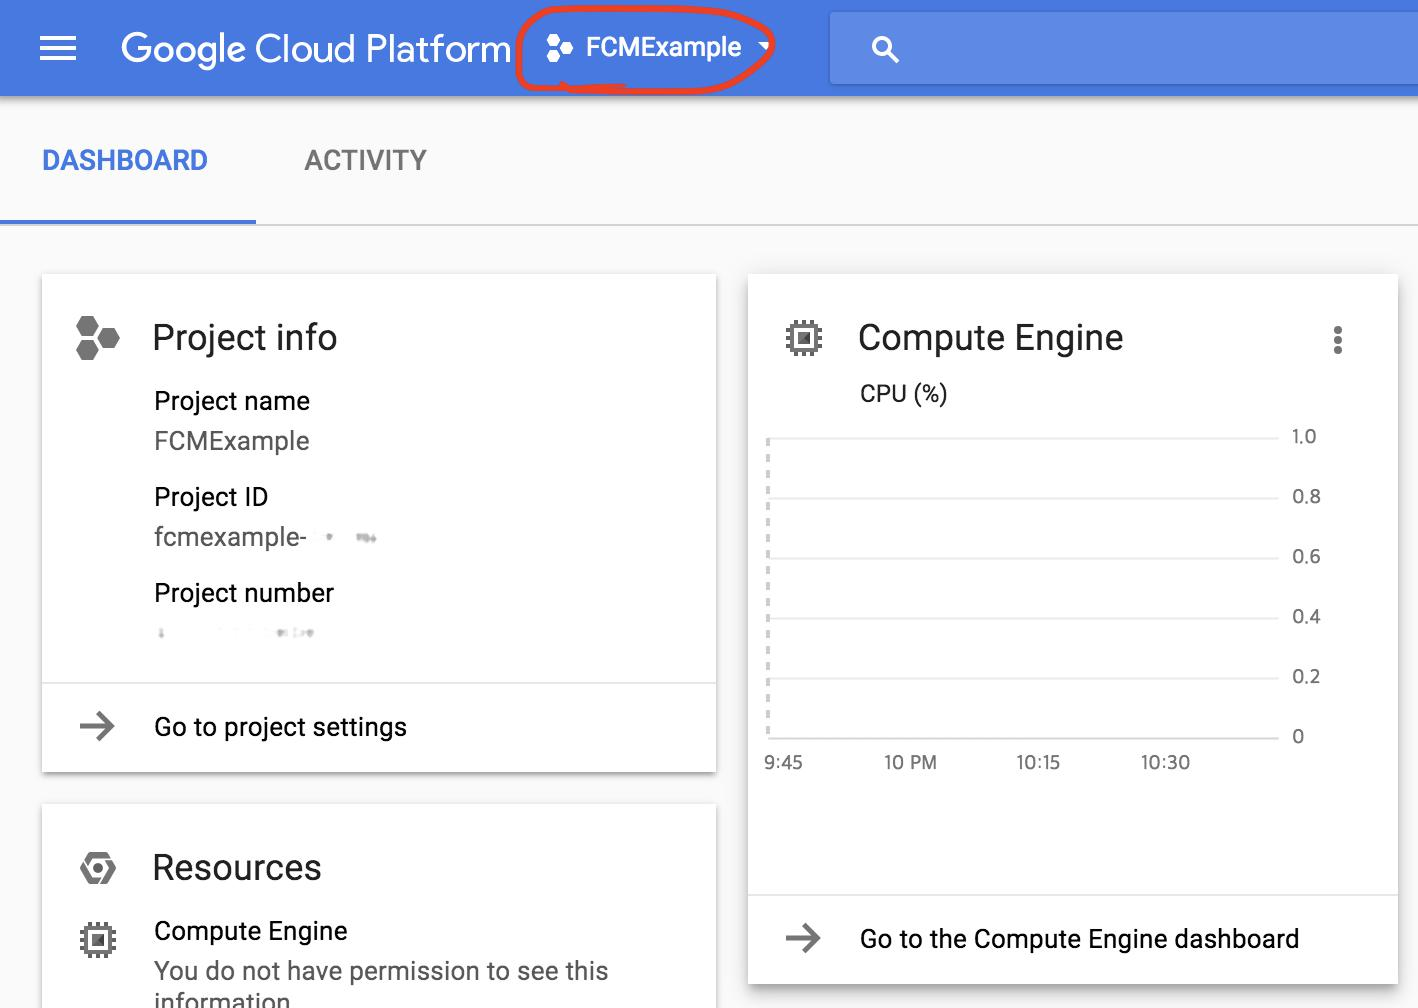
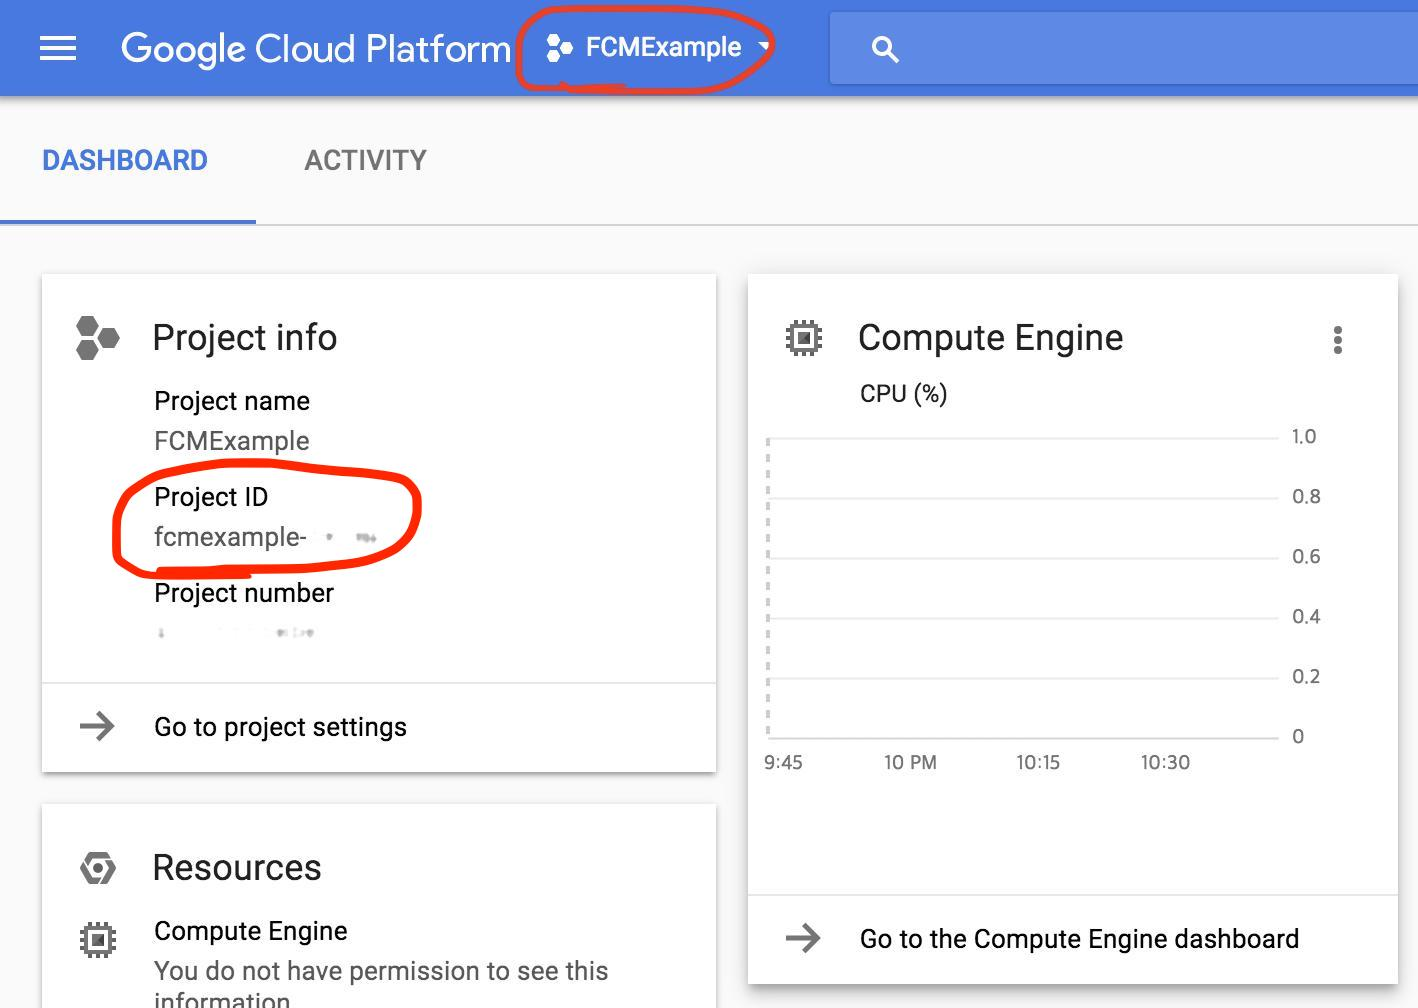
Updated Push Noti 2

Changed region(s): [[0.0621, 0.4306, 0.3103, 0.5843]]

diff --git a/_posts/2018-01-08-Android-Kotlin-Firebase-Push-Notification2.md b/_posts/2018-01-08-Android-Kotlin-Firebase-Push-Notification2.md
@@ -1,7 +1,7 @@
 ---
 layout: post
 title:  "Kotlin과 Firebase를 사용하여 Android에 푸쉬 알림 보내기 - 서버편"
-date:   2018-01-07 16:49:19 +0900
+date:   2018-01-08 19:34:20 +0900
 description: Template description
 image: 'http://noverish.me/blog/assets/img/logos/kotlin-firebase.jpg'
 category: 'android'
@@ -28,7 +28,8 @@ twitter_text: template twitter_text
 ### 2\. Firebase Cloud Messaging 켜기
 
 ![image002](../images{{ page.id }}/002.jpg)
-[Google Cloud 콘솔](https://console.cloud.google.com/)로 들어갑니다.
+[Google Cloud 콘솔](https://console.cloud.google.com/)로 들어갑니다.    
+여기 `Project ID`를 기억해 둡시다 뒤에 푸쉬를 보낼 때 쓰입니다.    
 위와 같이 프로젝트가 `FCMExample`로 되어 있는지 확인하고 만약에 아니라면 프로젝트 이름을 클릭합니다.
 
 ![image003](../images{{ page.id }}/003.jpg)
@@ -58,11 +59,11 @@ twitter_text: template twitter_text
 [Firebase 콘솔](https://console.firebase.google.com)로 들어가서 설정 - `SERVICE ACCOUNTS` - `GENERATE NEW PRIVATE KEY`를 누릅니다.
 
 <img src="../images{{ page.id }}/001.jpg" width="500">
-`GENERATE KEY`를 누릅니다.
-
-![image010](../images{{ page.id }}/010.jpg)
-아까 받은 json 파일을 통해 HTTP Request에 쓰일 access key를 찾아야 합니다.
-찾는 방법은 위와 같이 3개가 있는데 우리는 Python으로 하도록 하겠습니다.
+`GENERATE KEY`를 누릅니다.    
+파일 이름을 `service-account.json`으로 합니다.    
+이 json 파일을 통해 HTTP Request에 쓰일 access token를 생성해야 합니다.
+찾는 방법은 여러 가지가 있는데 우리는 Python으로 하도록 하겠습니다.
+Nodejs나 Java를 이용한 방법은 [문서](https://firebase.google.com/docs/cloud-messaging/auth-server)를 참고해 주세요
 
 ```shell
 pip install --upgrade google-api-python-client
@@ -79,7 +80,7 @@ def _get_access_token():
     access_token_info = credentials.get_access_token()
     return access_token_info.access_token
 ```
-위와 같은 코드로 access_token을 알아냅니다.
+위와 같은 코드로 access token을 알아냅니다.
 
 ### 4\. HTTP Request 보내기
 
@@ -92,10 +93,11 @@ def _get_access_token():
 ![image012](../images{{ page.id }}/012.jpg)
 
 ```
-method = POST
+POST
+https://fcm.googleapis.com/v1/projects/아까 그 project ID/messages:send
 
 headers = {
-  "Authorization": "Bearer " + 아까 그 access_key,
+  "Authorization": "Bearer " + 아까 그 access token,
   "Content-Type": "application/json; UTF-8",
 }
 
@@ -111,3 +113,42 @@ body = {
 ```
 
 위와 같이 HTTP Request를 하시면 성공적으로 앱에 푸쉬 알림이 도착합니다.
+
+### 5\. Android에서의 알림 종류
+
+Android에서는 notification 알림과 data 알림이 있습니다.   
+
+```
+body = {
+    "message": {
+        "token":"기기의 token 값",
+        "notification": {
+            "body": "This is an FCM notification message!",
+            "title": "FCM Message"
+        }
+    }
+}
+```
+이렇게 보내면 notification 알림이고
+
+```
+body = {
+    "message": {
+        "token":"기기의 token 값",
+        "data": {
+            "body": "This is an FCM notification message!",
+            "title": "FCM Message"
+        }
+    }
+}
+```
+이렇게 보내면 data 알림입니다.
+
+데이터는 `com.google.firebase.messaging.RemoteMessage` 객체에서
+각각 `notification` 과 `data` 로 접근 가능 합니다.
+
+notification 알림은 앱이 백그라운드에 있을 때 알림을 내부로 넘기지 않고
+`title` 과 `body` 값을 읽어내 알아서 기기에 알림을 띄웁니다.
+즉 `FirebaseMessagingService` 의 `onMessageReceived()`가 실행 되지 않는 다는 말이죠.
+
+앱이 백그라운드가 아닐 때는 똑같이 `FirebaseMessagingService` 의 `onMessageReceived()`가 실행이 됩니다.
